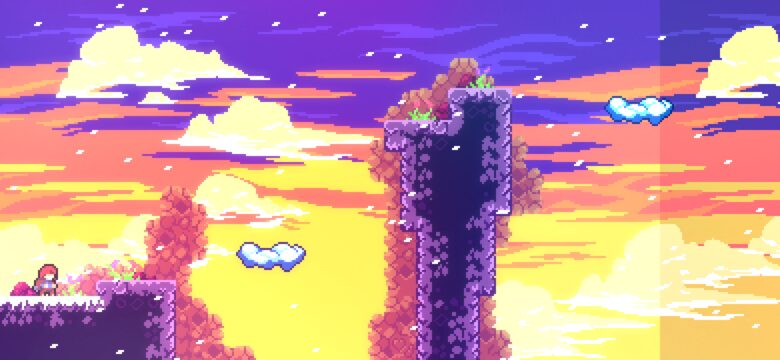
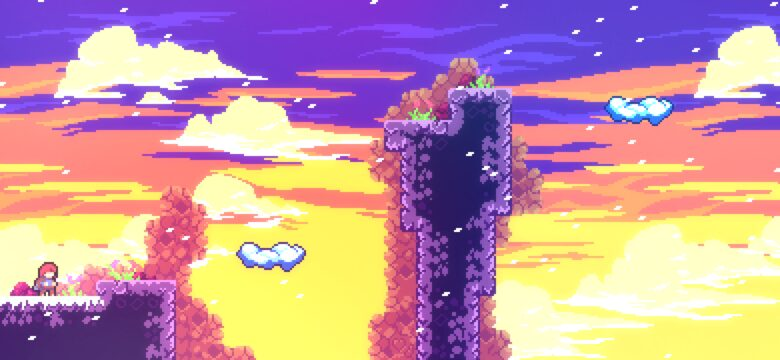
Widescreen: bloom base and other width+margin rects cover the wide view
BloomRenderer draws its base with Draw.Rect(-10, -10, 340, 200), which
stopped at x = 330 and left a vertical seam in chapters 4 and 10. Same
pattern in AscendManager (340), FinalBossStarfield (330), Petals (352)
and two chapter 10 cutscene fades (322).

diff --git a/src/Celeste.Patcher/WidescreenRules.cs b/src/Celeste.Patcher/WidescreenRules.cs
@@ -4,7 +4,8 @@ namespace CelesteAndroid.Patcher
 	/// Onde o <see cref="WidescreenPass"/> troca constantes. Tokens:
 	/// <list type="bullet">
 	/// <item>i320/f320: largura do jogo; i160/f160/f-160: metade dela (centro da câmera);
-	/// f322: largura + 2 (retângulos que cobrem a tela do jogo com sobra).</item>
+	/// f322/f330/f340/f352/i352: largura + 2/10/20/32 (retângulos e partículas que cobrem a tela do
+	/// jogo com sobra).</item>
 	/// <item>i1920/f1920/f960/i1922: alvo de alta resolução (largura, metade, +2).</item>
 	/// <item>SM: Engine.ScreenMatrix → matriz sem o deslocamento da interface (desenho no espaço largo).</item>
 	/// <item>EW: Engine.Width → 1920 (código que centraliza a interface pela largura da tela).</item>
@@ -60,7 +61,13 @@ namespace CelesteAndroid.Patcher
 			new("Celeste.DustEdges", "*", "f320"),
 			new("Celeste.SeekerEffectsController", "*", "f320"),
 			new("Celeste.Tentacles", "*", "f320", "f160"),
-			new("Celeste.AscendManager", "*", "f320"),
+			new("Celeste.AscendManager", "*", "f320", "f340"),
+			// Base do bloom: Draw.Rect(-10, -10, 340, 200) cobre só até x = 330 (emenda nos caps. 4 e 10).
+			new("Celeste.BloomRenderer", "*", "f340"),
+			new("Celeste.FinalBossStarfield", "*", "f330"),
+			new("Celeste.Petals", "*", "f352", "i352"),
+			new("Celeste.CS10_FinalLaunch", "*", "f322"),
+			new("Celeste.CS10_Farewell", "Render", "f322"),
 			new("Celeste.LightningRenderer", "*", "f320"),
 			new("Celeste.GondolaDarkness", "*", "f322"),
 			new("Celeste.FormationBackdrop", "*", "f322"),

diff --git a/src/Celeste.Patcher/WidescreenPass.cs b/src/Celeste.Patcher/WidescreenPass.cs
@@ -47,6 +47,10 @@ namespace CelesteAndroid.Patcher
 			new("f160", i => IsFloat(i, 160f), "FHalfW"),
 			new("f-160", i => IsFloat(i, -160f), "FNegHalfW"),
 			new("f322", i => IsFloat(i, 322f), "FW2"),
+			new("f330", i => IsFloat(i, 330f), "FW10"),
+			new("f340", i => IsFloat(i, 340f), "FW20"),
+			new("f352", i => IsFloat(i, 352f), "FW32"),
+			new("i352", i => IsInt(i, 352), "IW32"),
 			new("i1920", i => IsInt(i, 1920), "ITW"),
 			new("f1920", i => IsFloat(i, 1920f), "FTW"),
 			new("f960", i => IsFloat(i, 960f), "FHalfTW"),

diff --git a/src/Celeste.Android.Patches/Wide/Wide.cs b/src/Celeste.Android.Patches/Wide/Wide.cs
@@ -69,6 +69,10 @@ namespace CelesteAndroid
 		public static float FHalfW() => GameWidth / 2f;
 		public static float FNegHalfW() => -GameWidth / 2f;
 		public static float FW2() => GameWidth + 2;
+		public static float FW10() => GameWidth + 10;
+		public static float FW20() => GameWidth + 20;
+		public static float FW32() => GameWidth + 32;
+		public static int IW32() => GameWidth + 32;
 		public static int ITW() => TargetWidth;
 		public static float FTW() => TargetWidth;
 		public static float FHalfTW() => TargetWidth / 2f;

diff --git a/docs/WIDESCREEN.md b/docs/WIDESCREEN.md
@@ -40,6 +40,5 @@ CELESTE_DEV_EXIT_FRAME=2450   # fecha o jogo
 
 ## Limitações conhecidas
 
-- Capítulos 4 e 10: o fundo de nuvens tem uma emenda vertical perto da borda direita (em investigação).
 - O HUD de canto (morangos, cronômetro) fica na borda da área 16:9 central, não na borda da tela.
 - Cenas de corte com a câmera em posições fixas foram pensadas para 320 de largura: algumas mostram mais do cenário do que o planejado.
